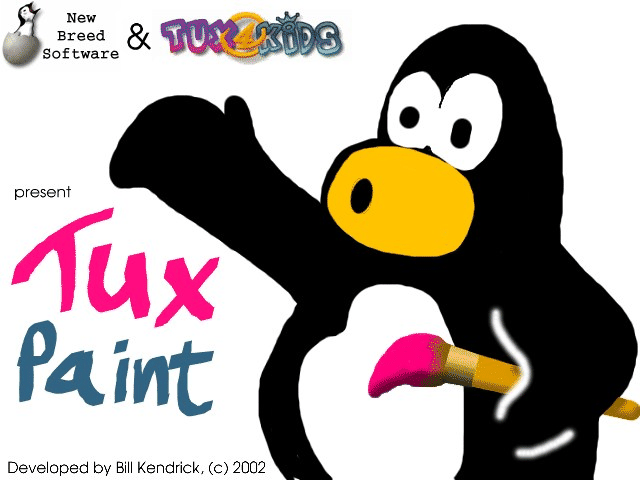
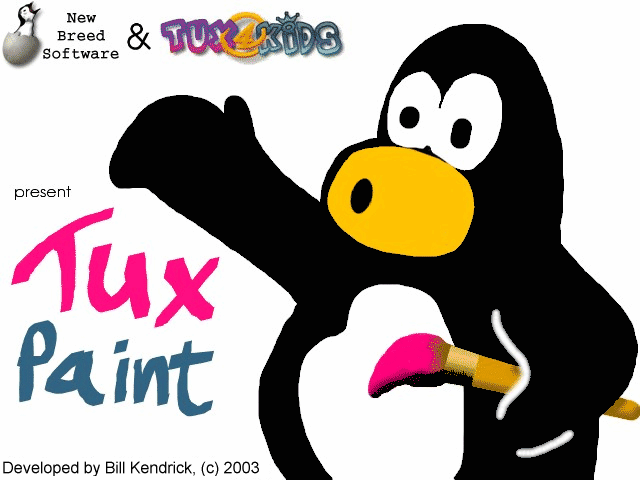
Cleaned up title image.  Fix mouse-pointer (cursor) shape inconsistencies. Added "--noshortcuts" option.

diff --git a/docs/html/README.html b/docs/html/README.html
@@ -23,7 +23,7 @@ New Breed Software</p>
 <p><a href="mailto:bill@newbreedsoftware.com">bill@newbreedsoftware.com</a><br>
 <a href="http://www.newbreedsoftware.com/tuxpaint/">http://www.newbreedsoftware.com/tuxpaint/</a></p>
 
-<p>June 14, 2002 - September 3, 2003</p>
+<p>June 14, 2002 - September 11, 2003</p>
 </center>
 
 <hr size=2 noshade>
@@ -344,6 +344,15 @@ New Breed Software</p>
           <b>[Ctrl]-[Escape]</b>, etc.  This is especially useful in
           fullscreen mode.</p>
 	</dd>
+
+	<dt><code><b>noshortcuts=yes</b></code></dt>
+	<dd>
+	  <p>This disable keyboard shortcuts (e.g., <b>[Ctrl]-[S]</b> for save,
+	  <b>[Ctrl]-[N]</b> for a new image, etc.)</p>
+
+	  <p>This is useful to prevent unwanted commands from being activated
+	  by children who aren't experienced with keyboards.</p>
+	</dd>
 	
 	<dt><code><b>nowheelmouse=yes</b></code></dt>
 	<dd>
@@ -635,6 +644,7 @@ New Breed Software</p>
 	--printcfg<br>
         --simpleshapes<br>
         --uppercase<br>
+	--noshortcuts<br>
         --grab<br>
 	--keyboard<br>
 	--nooutlines<br>
@@ -659,6 +669,7 @@ New Breed Software</p>
 	--noprintcfg<br>
         --complexshapes<br>
         --mixedcase<br>
+	--shortcuts<br>
         --dontgrab<br>
 	--mouse<br>
 	--outlines<br>

diff --git a/src/tuxpaint.c b/src/tuxpaint.c
@@ -7,12 +7,12 @@
   bill@newbreedsoftware.com
   http://www.newbreedsoftware.com/tuxpaint/
   
-  June 14, 2002 - September 5, 2003
+  June 14, 2002 - September 11, 2003
 */
 
 
 #define VER_VERSION     "0.9.13"
-#define VER_DATE        "2003.09.05"
+#define VER_DATE        "2003.09.11"
 
 
 /* #define DEBUG */
@@ -373,7 +373,7 @@ int use_sound, fullscreen, disable_quit, simple_shapes, language,
   disable_print, print_delay, only_uppercase, promptless_save, grab_input,
   wheely, no_fancy_cursors, keymouse, mouse_x, mouse_y,
   mousekey_up, mousekey_down, mousekey_left, mousekey_right,
-  dont_do_xor, use_print_config, dont_load_stamps;
+  dont_do_xor, use_print_config, dont_load_stamps, noshortcuts;
 int recording, playing;
 char * playfile;
 FILE * demofi;
@@ -447,6 +447,7 @@ SDL_Cursor * cursor_hand, * cursor_arrow, * cursor_watch,
 
 int cur_tool, cur_color, cur_brush, cur_stamp, cur_shape, cur_magic;
 int cur_font, cursor_left, cursor_x, cursor_y, cursor_textwidth;
+int colors_are_selectable;
 int been_saved;
 char file_id[32];
 int brush_scroll, stamp_scroll, font_scroll;
@@ -669,6 +670,7 @@ int main(int argc, char * argv[])
 
   cur_tool = TOOL_BRUSH;
   cur_color = COLOR_BLACK;
+  colors_are_selectable = 1;
   cur_brush = 0;
   cur_stamp = 0;
   cur_shape = SHAPE_SQUARE;
@@ -876,7 +878,8 @@ void mainloop(void)
 	      else if (key == SDLK_z &&
 		       (mod & KMOD_CTRL ||
 			mod & KMOD_LCTRL ||
-			mod & KMOD_RCTRL))
+			mod & KMOD_RCTRL) &&
+		       !noshortcuts)
 		{
 		  /* Ctrl-Z - Undo */
 		  
@@ -897,7 +900,8 @@ void mainloop(void)
 	      else if (key == SDLK_r &&
 		       (mod & KMOD_CTRL ||
 			mod & KMOD_LCTRL ||
-			mod & KMOD_RCTRL))
+			mod & KMOD_RCTRL) &&
+		       !noshortcuts)
 		{
 		  /* Ctrl-R - Redo */
 		  
@@ -913,7 +917,8 @@ void mainloop(void)
 	      else if (key == SDLK_o &&
 		       (mod & KMOD_CTRL ||
 			mod & KMOD_LCTRL ||
-			mod & KMOD_RCTRL))
+			mod & KMOD_RCTRL) &&
+		       !noshortcuts)
 		{
 		  /* Ctrl-O - Open */
 		  
@@ -972,7 +977,8 @@ void mainloop(void)
 	      else if ((key == SDLK_n &&
 			((mod & KMOD_CTRL ||
 			  mod & KMOD_LCTRL ||
-			  mod & KMOD_RCTRL))) && tool_avail[TOOL_NEW])
+			  mod & KMOD_RCTRL))) && tool_avail[TOOL_NEW] &&
+		       !noshortcuts)
 		{
 		  /* Ctrl-N - New */
 		  
@@ -1011,7 +1017,8 @@ void mainloop(void)
 	      else if (key == SDLK_s &&
 		       (mod & KMOD_CTRL ||
 			mod & KMOD_LCTRL ||
-			mod & KMOD_RCTRL))
+			mod & KMOD_RCTRL) &&
+		       !noshortcuts)
 		{
 		  /* Ctrl-S - Save */
 		  
@@ -2238,8 +2245,11 @@ void mainloop(void)
 		       event.button.y <= (48 * 7) + 40 + 48 + HEIGHTOFFSET)
 		{
 		  /* Color picker: */
-		  
-		  do_setcursor(cursor_hand);
+		 
+	  	  if (colors_are_selectable)
+		    do_setcursor(cursor_hand);
+		  else
+		    do_setcursor(cursor_arrow);
 		}
 	      else if (event.button.x >= WINDOW_WIDTH - 96 &&
 		       event.button.y > 40 &&
@@ -2302,15 +2312,27 @@ void mainloop(void)
 		      else
 			{
 			  /* One of the selectors: */
-			  
-			  do_setcursor(cursor_hand);
+			 
+			  which = ((event.button.y - 40 - 24) / 48) * 2 +
+				   (event.button.x - (WINDOW_WIDTH - 96)) / 48;
+
+			  if (which < num_things)
+			    do_setcursor(cursor_hand);
+			  else
+			    do_setcursor(cursor_arrow);
 			}
 		    }
 		  else
 		    {
 		      /* No scroll buttons - must be a selector: */
 		      
-		      do_setcursor(cursor_hand);
+		      which = ((event.button.y - 40) / 48) * 2 +
+			      (event.button.x - (WINDOW_WIDTH - 96)) / 48;
+
+		      if (which < num_things)
+			do_setcursor(cursor_hand);
+		      else
+			do_setcursor(cursor_arrow);
 		    }
 		}
 	      else if (event.button.x > 96 &&
@@ -3374,6 +3396,7 @@ void show_usage(FILE * f, char * prg)
     "       %s [--print | --noprint]         [--complexshapes | --simpleshapes]\n"
     "       %s [--mixedcase | --uppercase]   [--fancycursors | --nofancycursors]\n"
     "       %s [--mouse | --keyboard]        [--dontgrab | --grab]\n"
+    "       %s [--noshortcuts | --shortcuts] [--wheelmouse | --nowheelmouse]\n"
     "       %s [--outlines | --nooutlines]   [--stamps | --nostamps]\n"
     "       %s [--wheelmouse | --nowheelmouse]\n"
     "       %s [--saveoverask | --saveover | --saveovernew]\n"
@@ -3390,7 +3413,7 @@ void show_usage(FILE * f, char * prg)
     blank, blank, blank,
     blank, blank, blank,
     blank, blank, blank,
-    blank, blank);
+    blank, blank, blank);
 
   free(blank);
 }
@@ -3540,6 +3563,7 @@ void setup(int argc, char * argv[])
 
   use_sound = 1;
   fullscreen = 0;
+  noshortcuts = 0;
   dont_do_xor = 0;
   keymouse = 0;
   wheely = 1;
@@ -3653,6 +3677,14 @@ void setup(int argc, char * argv[])
     else if (strcmp(argv[i], "--windowed") == 0 || strcmp(argv[i], "-w") == 0)
     {
       fullscreen = 0;
+    }
+    else if (strcmp(argv[i], "--noshortcuts") == 0)
+    {
+      noshortcuts = 1;
+    }
+    else if (strcmp(argv[i], "--shortcuts") == 0)
+    {
+      noshortcuts = 0;
     }
     else if (strcmp(argv[i], "--800x600") == 0)
     {
@@ -5247,6 +5279,11 @@ void draw_colors(int enabled)
       SDL_BlitSurface(img_paintcan, NULL, screen, &dest);
     }
   }
+
+
+  /* Keep track of this globally, so the cursor shape will act right */
+
+  colors_are_selectable = enabled;
 }
 
 
@@ -9282,7 +9319,8 @@ int do_open(int want_new_tool)
 	      else if (key == SDLK_d &&
 		       (event.key.keysym.mod & KMOD_CTRL ||
 			event.key.keysym.mod & KMOD_LCTRL ||
-			event.key.keysym.mod & KMOD_RCTRL))
+			event.key.keysym.mod & KMOD_RCTRL) &&
+		       !noshortcuts)
 		{
 		  /* Delete! */
 		  
@@ -10941,6 +10979,15 @@ void parse_options(FILE * fi)
 	{
 	  fullscreen = 0;
 	}
+      else if (strcmp(str, "noshortcuts=yes") == 0)
+        {
+	  noshortcuts = 1;
+        }
+      else if (strcmp(str, "noshortcuts=no") == 0 ||
+	       strcmp(str, "shortcuts=yes") == 0)
+        {
+	  noshortcuts = 0;
+        }
       else if (strcmp(str, "800x600=yes") == 0)
         {
 	  WINDOW_WIDTH = 800;
